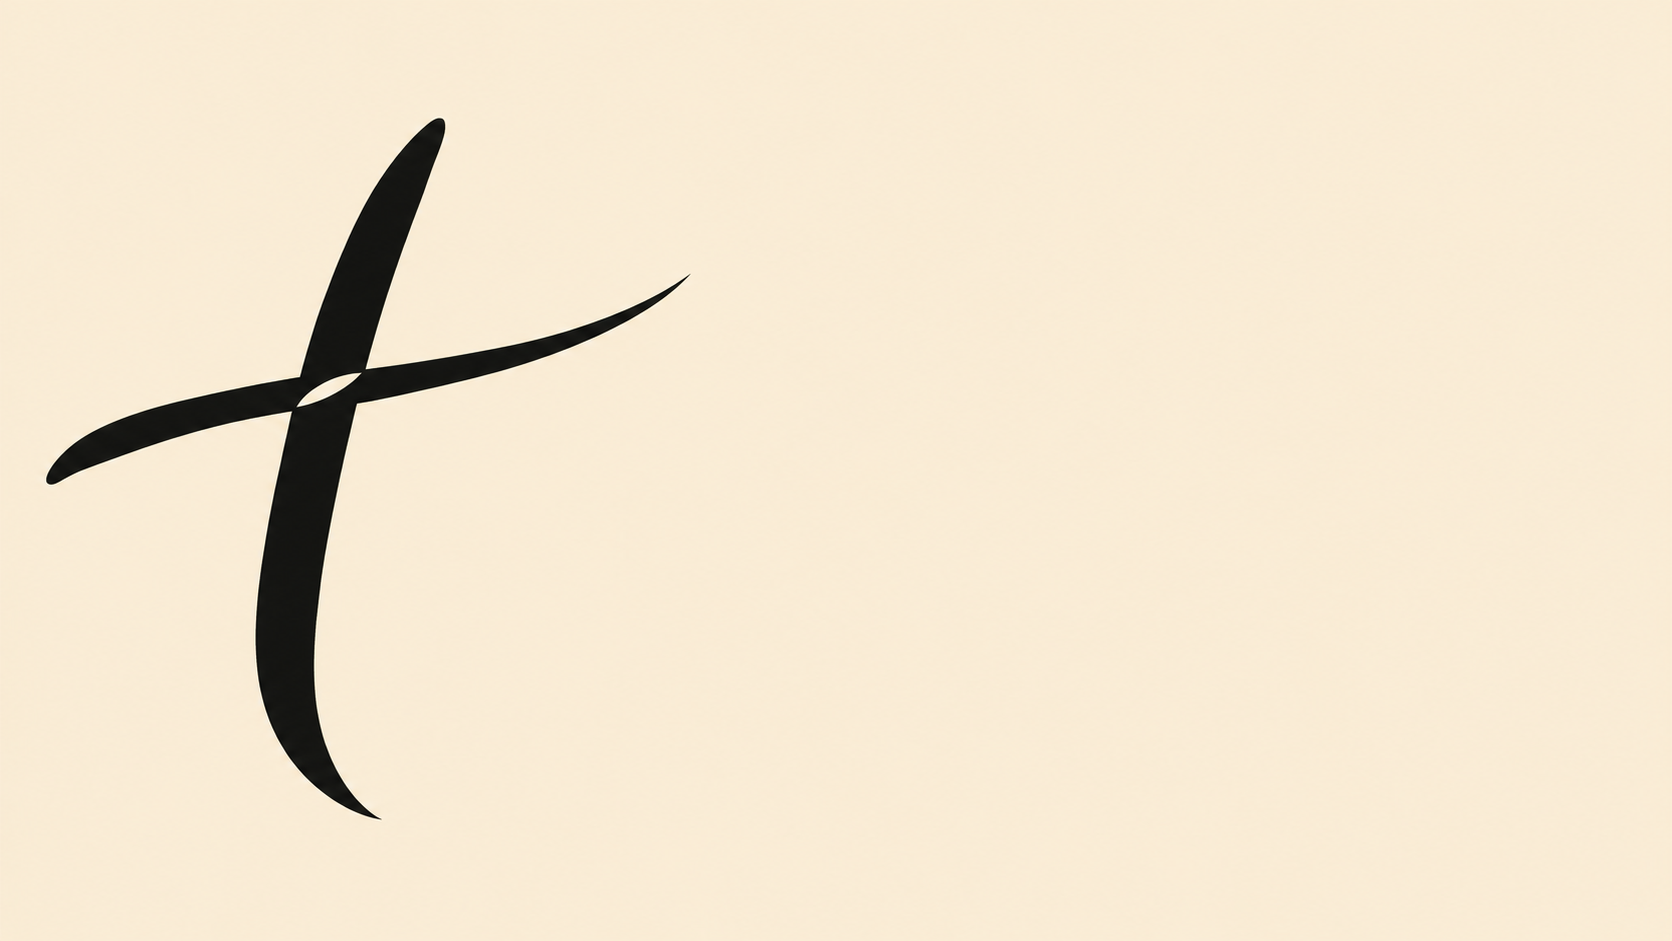
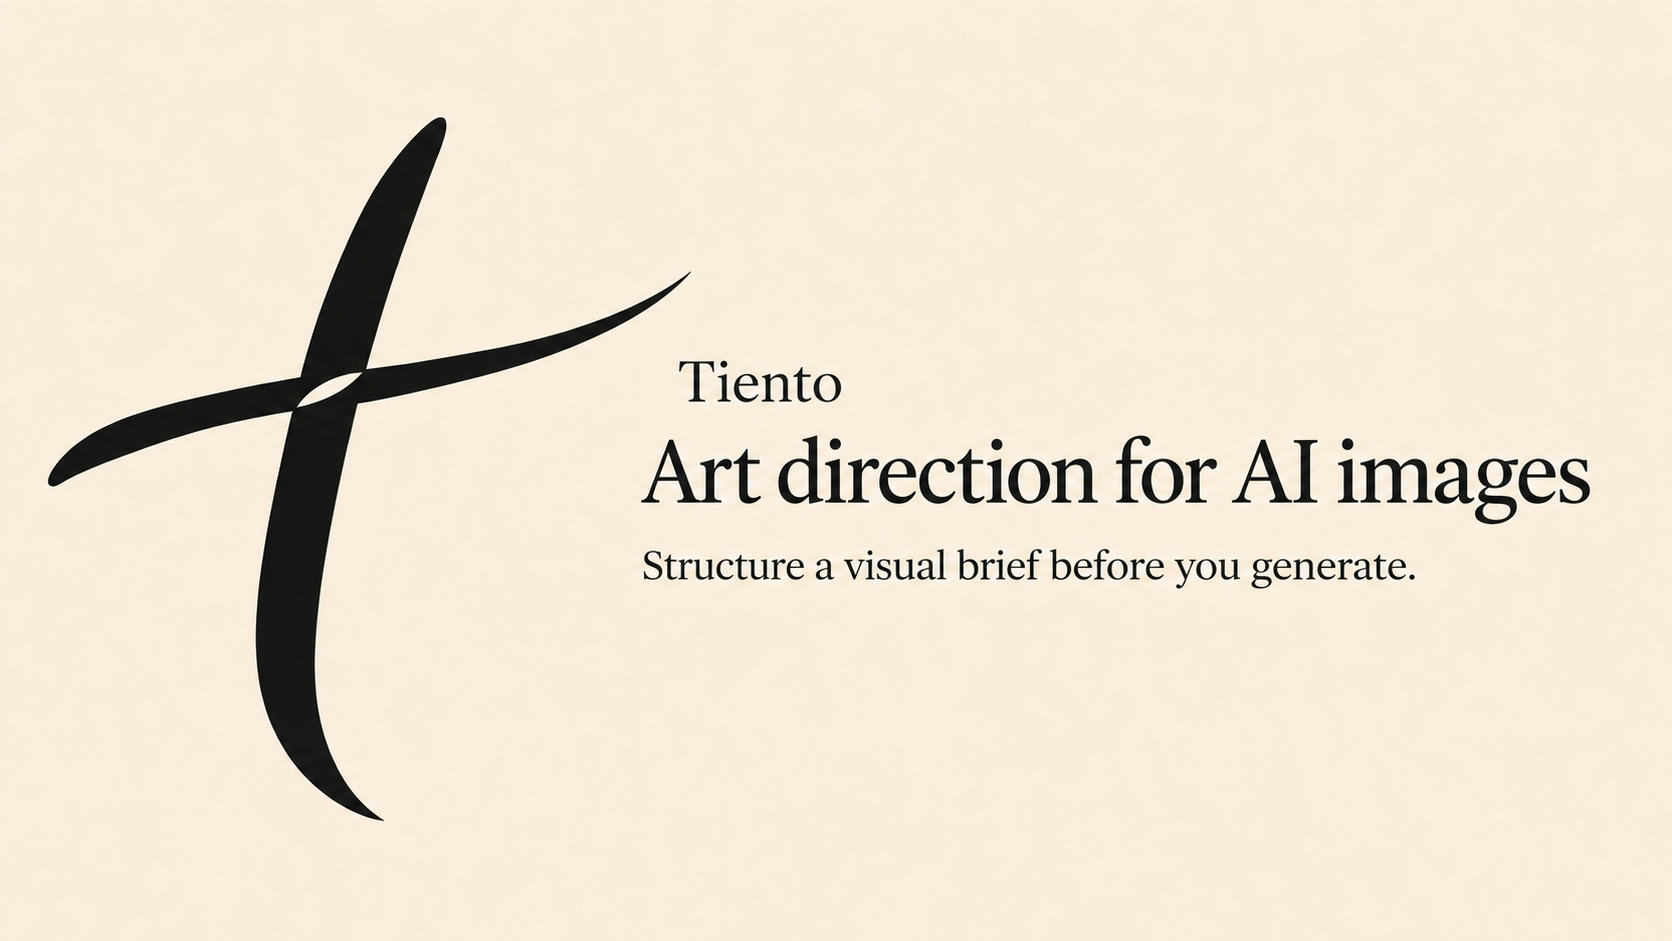
docs: refine Tiento README hero

diff --git a/README.md b/README.md
@@ -1,67 +1,45 @@
 # Tiento
 
-Tiento supports thoughtful, well-directed AI image generation across creative work. It turns a brief into structured image direction — concept, composition, and visual style — so imagery feels intentional rather than generic.
+![Tiento — art direction for AI images](docs/assets/hero-banner.png)
 
-![Tiento hero banner](docs/assets/hero-banner.png)
+Tiento supports thoughtful, well-directed AI image generation across creative work by structuring the brief before you generate. Capture the subject, audience, medium, aspect ratio, exclusions, and references that guide your visual direction.
 
-![Tiento mark (dark)](docs/assets/tiento-mark-dark.png "Tiento mark — dark variant")
-![Tiento mark (light)](docs/assets/tiento-mark-light.png "Tiento mark — light variant")
+## What it does
 
-## The problem
-
-AI image generation can produce polished images that still feel generic when the direction is unclear. Without a point of view, compositions and visual language can drift.
-
-Tiento helps shape the direction behind generated images. As a Hermes skill, it provides structured briefs, skill routing, and a generation skeleton to support intentional visual choices across subjects, formats, and creative workflows.
-
-## What's inside
-
-Tiento is organized as three sub-skills, each owning one stage of the visual direction:
+Tiento is a Hermes skill for shaping the visual direction behind AI-generated images. It organizes the work into three focused sub-skills:
 
 | Sub-skill | Role |
 |---|---|
-| `art-director/` | Art direction and visual concept |
-| `interface-director/` | Interface design and mockups |
-| `visual-critic/` | Visual critique of mockups |
-
-Each sub-skill is a directory with its own README describing inputs, outputs, and conventions.
-
-## Conceptual preview
-
-Tiento routes a creative brief through a sub-skill and produces a structured direction. The diagram below is a conceptual SVG (generable with `scripts/preview_concepts.py` when available) showing the flow.
-
-```text
-Brief ──► [ skill selection ] ──► [ art direction ] ──► Image direction
-```
+| `art-director/` | Develops an art direction and visual concept. |
+| `interface-director/` | Designs interfaces and mockups. |
+| `visual-critic/` | Critiques visual mockups. |
 
 ## Getting started
 
+Clone the repository and list the available sub-skills:
+
 ```bash
-# Clone the repository
 git clone https://github.com/lucio-homelab/tiento.git
 cd tiento
-
-# List the available sub-skills
-python tiento.py --list
-
-# Validate the skill definitions
-python tiento.py --validate
-
-# Run the unit tests (4 tests)
-python tests/test_tiento.py
+python3 tiento.py --list
 ```
 
-### Building a brief from Python
+Validate the skill definitions and run the tests:
+
+```bash
+python3 tiento.py --validate
+python3 tests/test_tiento.py
+```
+
+Tiento requires Python 3 and uses only the standard library; no package installation is required.
+
+## Build a brief
+
+Use `build_brief()` to create a structured direction for a visual:
 
 ```python
-from tiento import build_brief, list_skills
+from tiento import build_brief
 
-# See available sub-skills
-print(list_skills())
-# {'art-director': 'Art direction and visual concept.',
-#  'interface-director': 'Interface design and mockups.',
-#  'visual-critic': 'Visual critique of mockups.'}
-
-# Build a brief for the art-director sub-skill
 brief = build_brief(
     skill="art-director",
     subject="Cover illustration for a product announcement",
@@ -75,85 +53,22 @@ brief = build_brief(
 print(brief.to_json(indent=2))
 ```
 
-## Usage
+A brief records the target sub-skill, subject, optional audience and medium, aspect ratio, exclusions, and references.
 
-### CLI
+## Python API
 
-```bash
-python tiento.py --list
-python tiento.py --validate
-```
+- `list_skills()` returns the available sub-skills and their descriptions.
+- `build_brief(...)` creates a validated `Brief`; it raises `UnknownSkillError` for an unknown sub-skill.
+- `Brief.to_dict()` and `Brief.to_json()` serialize a brief.
+- `generate_image(brief)` is a placeholder and does not render an image yet.
 
-### Python API
+## Project status
 
-```python
-from tiento import Brief, UnknownSkillError, build_brief, generate_image, list_skills
-
-# List sub-skills
-skills = list_skills()
-
-# Build a validated brief
-brief = build_brief(
-    skill="visual-critic",
-    subject="Dashboard mockup review",
-    audience="design team",
-    medium="screen",
-    aspect_ratio="4:3",
-)
-
-# Generate (skeleton — see Project status below)
-result = generate_image(brief)
-print(result)
-```
-
-## Technical reference
-
-### `list_skills() -> dict[str, str]`
-
-Returns the available sub-skills mapped to their descriptions.
-
-### `build_brief(skill, subject, audience=None, medium=None, aspect_ratio=None, exclusions=None, references=None) -> Brief`
-
-Builds and validates a `Brief` for the given sub-skill. Raises `UnknownSkillError` if the skill does not exist.
-
-### `generate_image(brief: Brief) -> str`
-
-Skeleton generation entry point. Accepts a `Brief` and returns a placeholder message indicating the sub-skill is a skeleton pending implementation.
-
-### `Brief` dataclass
-
-| Field | Type | Description |
-|---|---|---|
-| `skill` | `str` | Target sub-skill name |
-| `subject` | `str` | Brief subject / creative prompt |
-| `audience` | `str \| None` | Intended audience |
-| `medium` | `str \| None` | Delivery medium |
-| `aspect_ratio` | `str \| None` | Target aspect ratio |
-| `exclusions` | `list[str]` | Visual elements to exclude |
-| `references` | `list[str]` | Reference assets |
-
-`Brief.to_dict()` returns a plain dict; `Brief.to_json(**kwargs)` returns a JSON string.
-
-### `UnknownSkillError(ValueError)`
-
-Raised by `build_brief` when the requested sub-skill is not registered.
-
-## Project status (honest)
-
-Tiento is currently a **skeleton**:
-
-- ✅ `list_skills()`, `build_brief()`, `generate_image()` exist and are typed
-- ✅ `Brief` dataclass with `to_dict()` / `to_json()`
-- ✅ `--list` and `--validate` CLI commands
-- ✅ 4 unit tests, all passing
-- ❌ `generate_image()` does not render images yet — it returns a placeholder message
-- ❌ No real image-rendering backend is wired in
-
-The roadmap is to move from skeleton to a real rendering path: connect an image-generation provider, add output validation, and let each sub-skill produce actual visuals. Until then, Tiento gives you the structure (briefs, routing, validation) so the rendering layer has a solid contract to build against.
+Tiento currently provides structured briefs, sub-skill selection, and validation. Use its briefs to guide your chosen image-generation workflow; rendering is not implemented yet.
 
 ## Origin
 
-Tiento is an adaptation of the `tiento` plugin from [`github.com/LucioB16/chatgpt-plugins`](https://github.com/LucioB16/chatgpt-plugins) (folder `tiento/`), ported as a Hermes skill by LucioB16.
+Tiento adapts the `tiento` plugin from [`LucioB16/chatgpt-plugins`](https://github.com/LucioB16/chatgpt-plugins) (folder `tiento/`) into a Hermes skill.
 
 ## License
 
